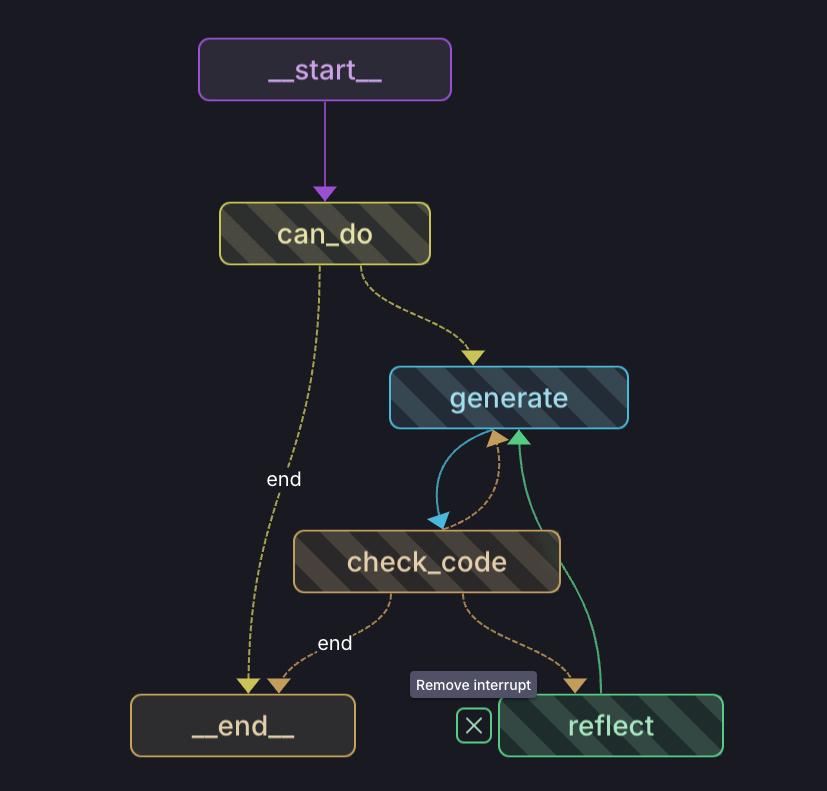
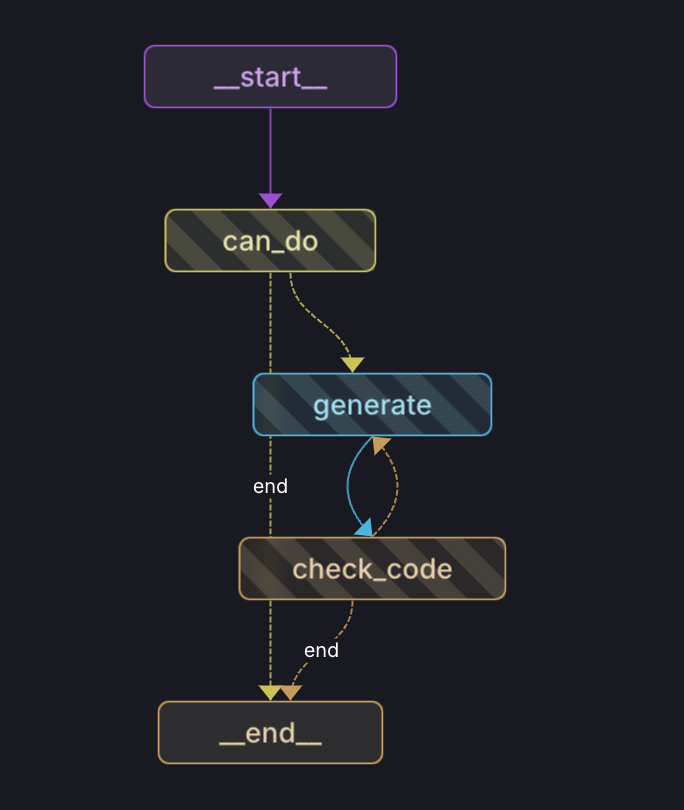
Remove reflect node

Changed region(s): [[0.1535, 0.0303, 0.8904, 0.9709]]

diff --git a/cookbook-generator/develyn.py b/cookbook-generator/develyn.py
@@ -3,7 +3,7 @@ from prompts import SYSTEM_PROMPT, CAN_DO_PROMPT
 from config import * 
 from tools import decide_to_finish, can_answer
 from state import GraphState
-from nodes import generate, code_check, reflect, answer_can_do
+from nodes import generate, code_check, answer_can_do
 from utils import fetch_docs, parse_output
 from langchain_openai import ChatOpenAI
 from langchain_core.prompts import ChatPromptTemplate
@@ -46,7 +46,6 @@ workflow = StateGraph(GraphState)
 workflow.add_node("can_do", answer_can_do)  # can do
 workflow.add_node("generate", generate)  # generation solution
 workflow.add_node("check_code", code_check)  # check code
-workflow.add_node("reflect", reflect)  # reflect
 
 # Build graph
 workflow.add_edge(START, "can_do")
@@ -64,11 +63,9 @@ workflow.add_conditional_edges(
     decide_to_finish,
     {
         "end": END,
-        "reflect": "reflect",
         "generate": "generate",
     },
 )
-workflow.add_edge("reflect", "generate")
 app = workflow.compile()
 
 #question = "How can I directly pass a string to a runnable and use it to construct the input needed for my prompt?"

diff --git a/cookbook-generator/nodes.py b/cookbook-generator/nodes.py
@@ -104,33 +104,6 @@ def code_check(state: GraphState):
         "error": "no",
     }
 
-def reflect(state: GraphState):
-    """
-    Reflect on errors
-
-    Args:
-        state (dict): The current graph state
-
-    Returns:
-        state (dict): New key added to state, generation
-    """
-
-    print("---GENERATING CODE SOLUTION---")
-
-    # State
-    messages = state["messages"]
-    iterations = state["iterations"]
-    code_solution = state["generation"]
-
-    # Prompt reflection
-
-    # Add reflection
-    reflections = globals.code_gen_chain.invoke(
-        {"docs": globals.docs, "company": COMPANY ,"project": PROJECT, "messages": messages}
-    )
-    messages += [("assistant", f"Here are reflections on the error: {reflections}")]
-    return {"generation": code_solution, "messages": messages, "iterations": iterations}
-
 def answer_can_do(state: GraphState):
     """
     Answer can do

diff --git a/cookbook-generator/tools.py b/cookbook-generator/tools.py
@@ -1,4 +1,4 @@
-from config import flag, MAX_RETRIES
+from config import MAX_RETRIES
 
 
 from state import GraphState
@@ -23,10 +23,6 @@ def decide_to_finish(state: GraphState):
         print("---DECISION: FINISH---")
         return "end"
     else:
-        print("---DECISION: RE-TRY SOLUTION---")
-        if flag == "reflect":
-            return "reflect"
-        else:
             return "generate"
         
 def can_answer(state: GraphState):

diff --git a/cookbook-generator/config.py b/cookbook-generator/config.py
@@ -14,7 +14,6 @@ Instructions for output format.
 DOCUMENT_URL = "https://python.langchain.com/v0.2/docs/concepts/#langchain-expression-language-lcel"
 # Retry Configuration
 MAX_RETRIES = 3
-flag = "do not reflect"
 
 # Agent Configuration
 AGENT_NAME = "Develyn"
